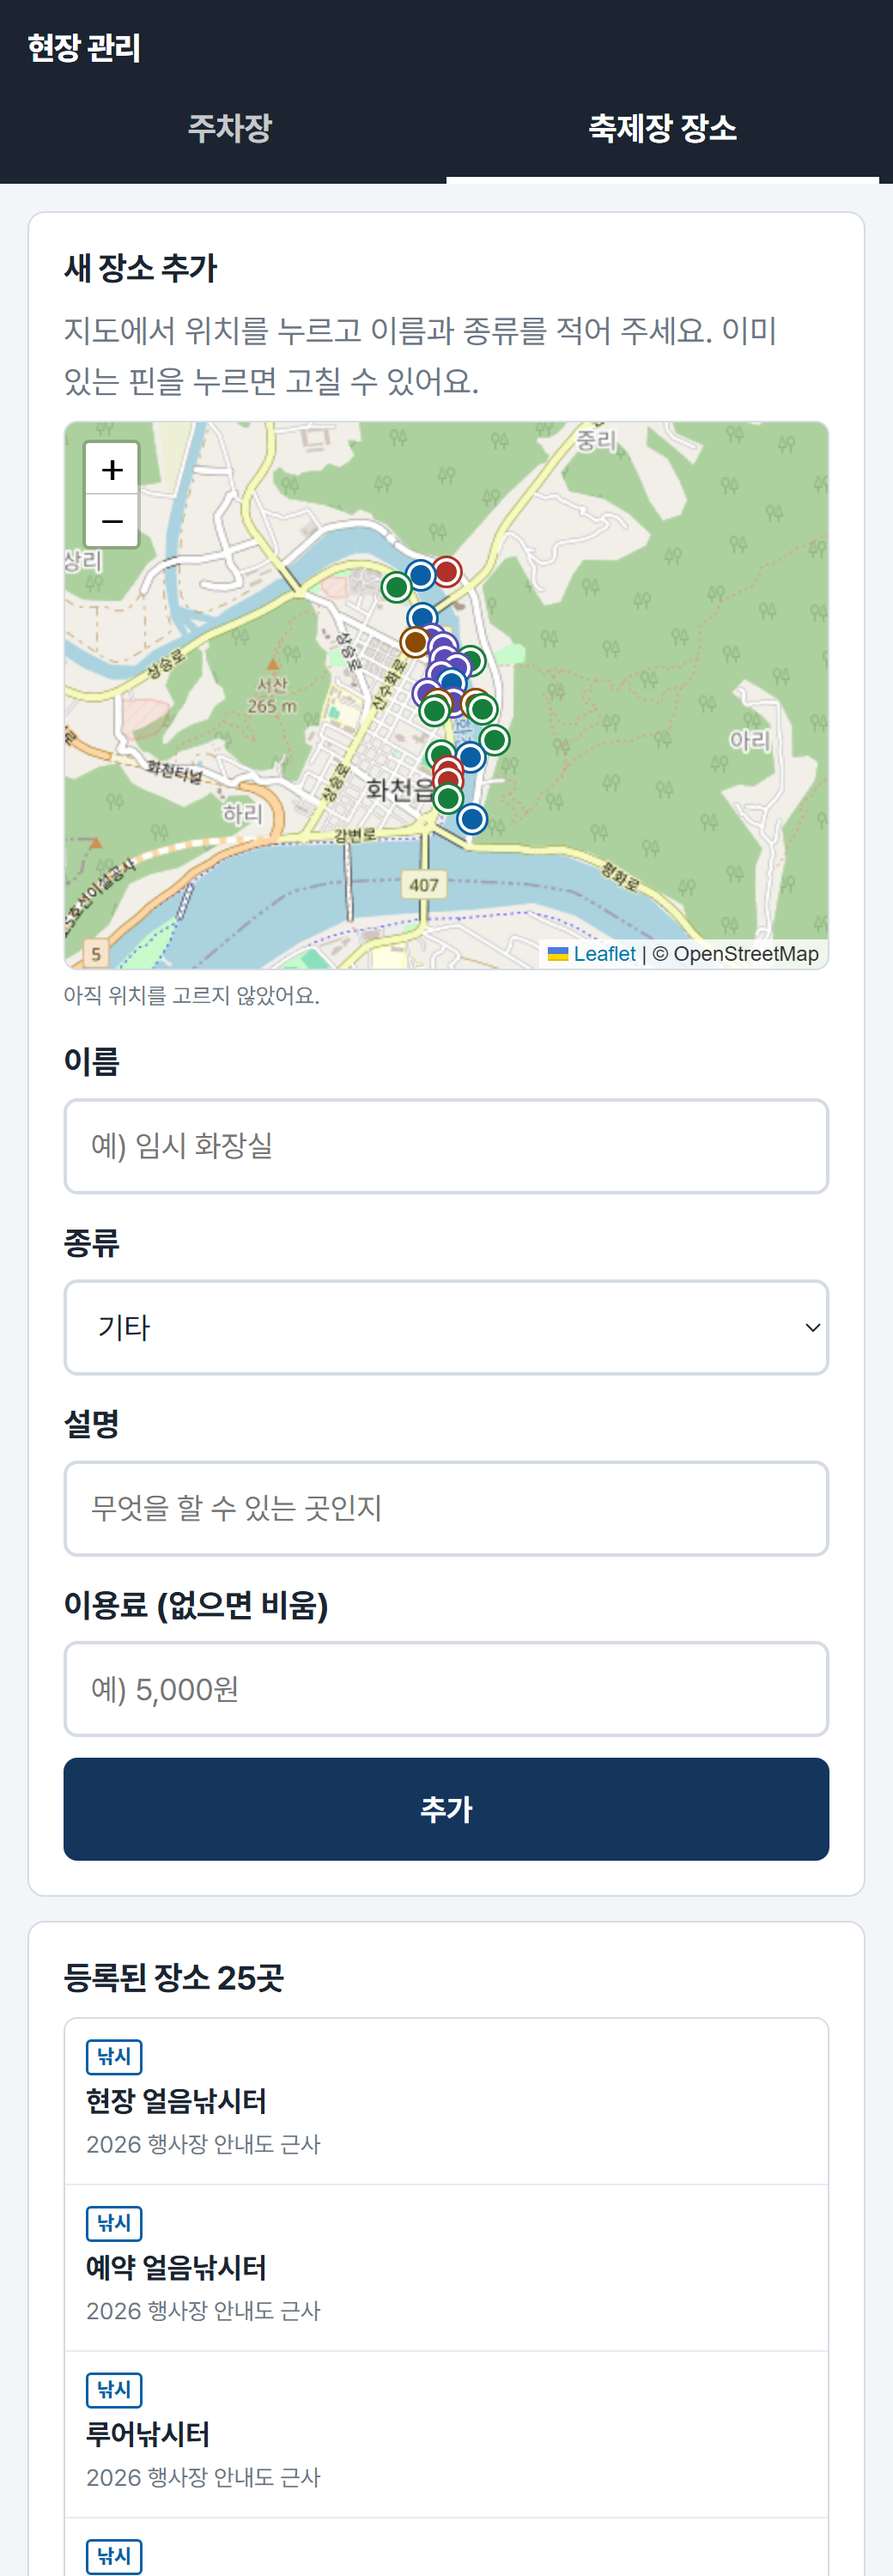
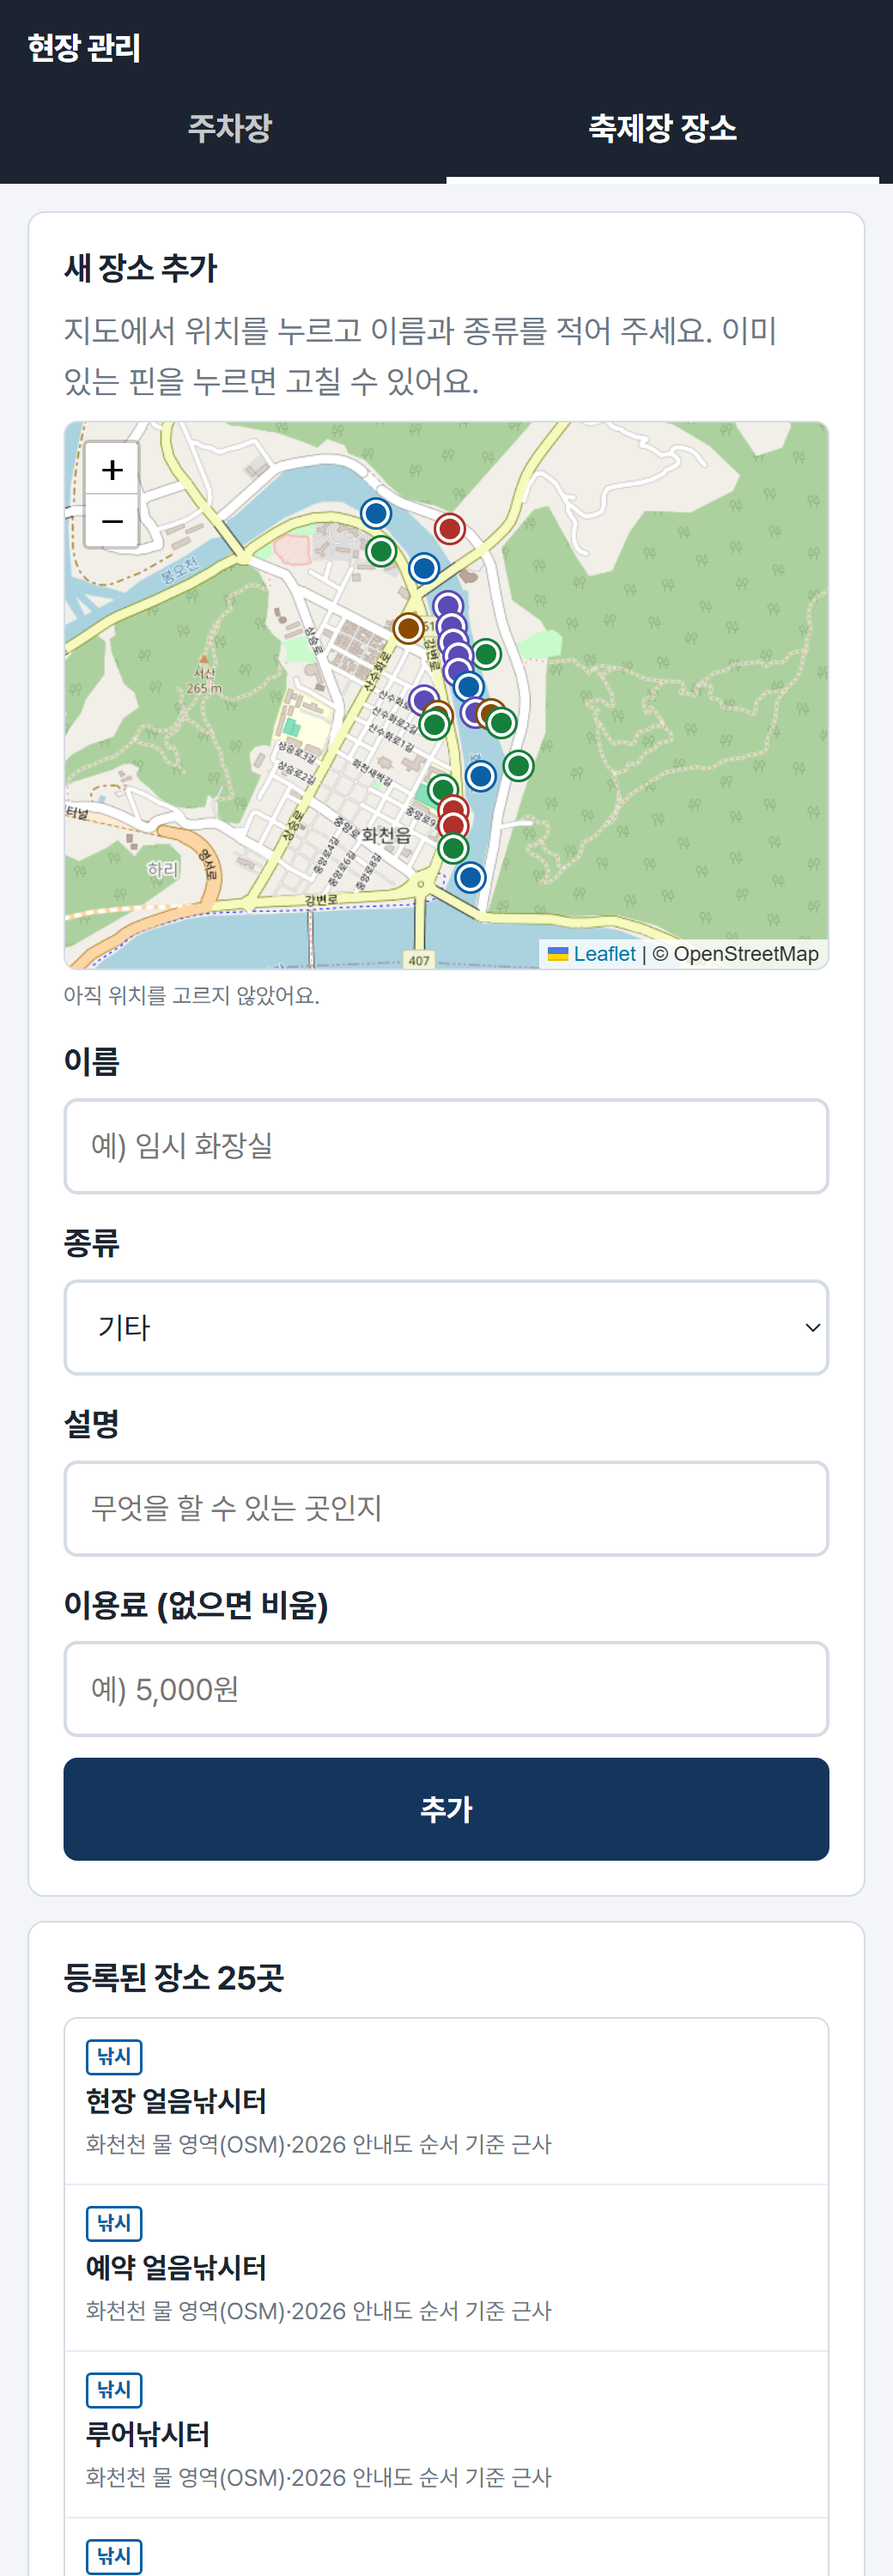
서비스 이름을 '화천 주차·셔틀 안내'로 변경, 화면 캡처 갱신

diff --git a/frontend/index.html b/frontend/index.html
@@ -6,7 +6,7 @@
     <meta name="theme-color" content="#14365c" />
     <meta name="description" content="산천어축제 임시주차장 남은 자리, 셔틀 위치·시간, 축제장 낚시터·체험장 안내" />
     <link rel="icon" href="/favicon.svg" type="image/svg+xml" />
-    <title>산천어축제 안내</title>
+    <title>화천 주차·셔틀 안내</title>
   </head>
   <body>
     <div id="root"></div>

diff --git a/frontend/src/components/Layout.jsx b/frontend/src/components/Layout.jsx
@@ -11,7 +11,7 @@ export default function Layout({ children, back }) {
             </Link>
           ) : null}
           <Link to="/" className="brand">
-            산천어축제 안내
+            화천 주차·셔틀 안내
           </Link>
         </div>
         <nav className="tabs" aria-label="메뉴">

diff --git a/CLAUDE.md b/CLAUDE.md
@@ -25,7 +25,7 @@ KNU RE:RISE 7팀. 축제 임시주차장 남은 자리 표시(입·출구 센서
 
 ## 원칙
 - 데이터는 실제 출처 기반. 추정·예시 값은 `*_source` 컬럼과 화면 문구로 반드시 구분. 없는 면수는 지어내지 말고 null.
-- 서비스 이름은 "산천어축제 안내"(주차장 현황·셔틀·축제장 지도). 하는 일이 바로 보이게. 팀명은 앞에 내세우지 않음. 화천군·산천어축제 공식 로고/브랜딩 사용 금지.
+- 서비스 이름은 "화천 주차·셔틀 안내"(주차장 현황·셔틀·축제장 지도). 하는 일이 바로 보이게. 팀명은 앞에 내세우지 않음. 화천군·산천어축제 공식 로고/브랜딩 사용 금지.
 - 이용자 대부분 50대 이상, 보는 사람은 화천군 교통 담당 공무원. 정부 서비스(KRDS) 느낌: Pretendard, 남색 기본색, 본문 19px 이상, 버튼 높이 52px 이상, 상태는 색+글자 함께.
 - AI가 만든 티 금지: 그라데이션·이모지·그림자 카드·장식 아이콘·영문 슬로건 쓰지 않음. 큰 숫자(남은 자리·셔틀 시각) 우선, 한 화면 한 가지 일.
 - 시연: 백엔드 `DEMO_CLOCK=2027-01-16T09:30` 으로 축제 토요일 시각부터 흐르게 실행.

diff --git a/.claude/skills/ui-design/SKILL.md b/.claude/skills/ui-design/SKILL.md
@@ -1,9 +1,9 @@
 ---
 name: ui-design
-description: 화천 산천어축제 안내 화면을 만들거나 고칠 때 쓰는 디자인 규칙과 점검 절차. 프론트(frontend/src) 화면·문구·CSS를 바꾸기 전에 반드시 읽는다. "AI가 만든 티" 없이 공공 안내 서비스처럼 보이게 하는 기준.
+description: 화천 주차·셔틀 안내 화면을 만들거나 고칠 때 쓰는 디자인 규칙과 점검 절차. 프론트(frontend/src) 화면·문구·CSS를 바꾸기 전에 반드시 읽는다. "AI가 만든 티" 없이 공공 안내 서비스처럼 보이게 하는 기준.
 ---
 
-# 산천어축제 안내 UI 규칙
+# 화천 주차·셔틀 안내 UI 규칙
 
 보는 사람: 화천군 교통 담당 공무원(평가자), 실제 이용자는 50대 이상 운전자.
 참고 대상: 도로 주차유도 전광판(PGIS), 공영주차장 안내 앱, 정부 디자인 시스템(KRDS). 마케팅 랜딩페이지가 아님.

diff --git a/docs/발표_시연_계획.md b/docs/발표_시연_계획.md
@@ -8,7 +8,7 @@
 ## 1. 슬라이드 구성 (지정 목차 6개)
 | # | 목차 | 슬라이드 | 핵심 내용 / 자료 | 시간 |
 |---|---|---|---|---|
-| 1 | 표지 | 산천어축제 안내 | 팀명, 날짜, 한 줄 | 0:10 |
+| 1 | 표지 | 화천 주차·셔틀 안내 | 팀명, 날짜, 한 줄 | 0:10 |
 | 2 | 1. 과제 선정배경 | 겨울 하루, 화천읍에 몰리는 차 | 재방문율 높은 축제, 좁은 읍내. 사진: 정체·불법주차(출처 표기) | 0:20 |
 | 3 | | 숫자로 본 문제 | 08:30 토요일 만차(인터뷰), 임시주차장 12곳(2026 안내), 셔틀 20분, 주차장당 직원 6명+ | 0:20 |
 | 4 | | 다른 축제는? | 실시간 주차 안내·외곽 주차+셔틀 사례(적용 가능/어려운 점) | 0:20 |

diff --git a/docs/노션_정리.md b/docs/노션_정리.md
@@ -1,6 +1,6 @@
 # 노션 정리 (2026-11-16 최신)
 
-노션 「기획문서 — 산천어축제 안내」 페이지를 지금 서비스 기준으로 새로 고쳤어요. 원본은 노션에 있고, 이 파일은 빈칸 값만 모아 둡니다.
+노션 「기획문서 — 화천 주차·셔틀 안내」 페이지를 지금 서비스 기준으로 새로 고쳤어요. 원본은 노션에 있고, 이 파일은 빈칸 값만 모아 둡니다.
 
 ## 메인 페이지 빈칸
 | 칸 | 값 |

diff --git a/docs/기획문서.md b/docs/기획문서.md
@@ -1,4 +1,4 @@
-# 산천어축제 안내 기획문서 (v3, 2026-11-16)
+# 화천 주차·셔틀 안내 기획문서 (v3, 2026-11-16)
 
 KNU RE:RISE 7팀 · 배포: 웹 https://parking-mate.vercel.app · 서버 https://parkingmate-api.onrender.com (API 명세 `/swagger-ui.html`)
 

diff --git a/README.md b/README.md
@@ -1,4 +1,4 @@
-# ParkingMate — 산천어축제 안내
+# ParkingMate — 화천 주차·셔틀 안내
 
 지역문제 해결 프로젝트입니다 (KNU RE:RISE).
 
